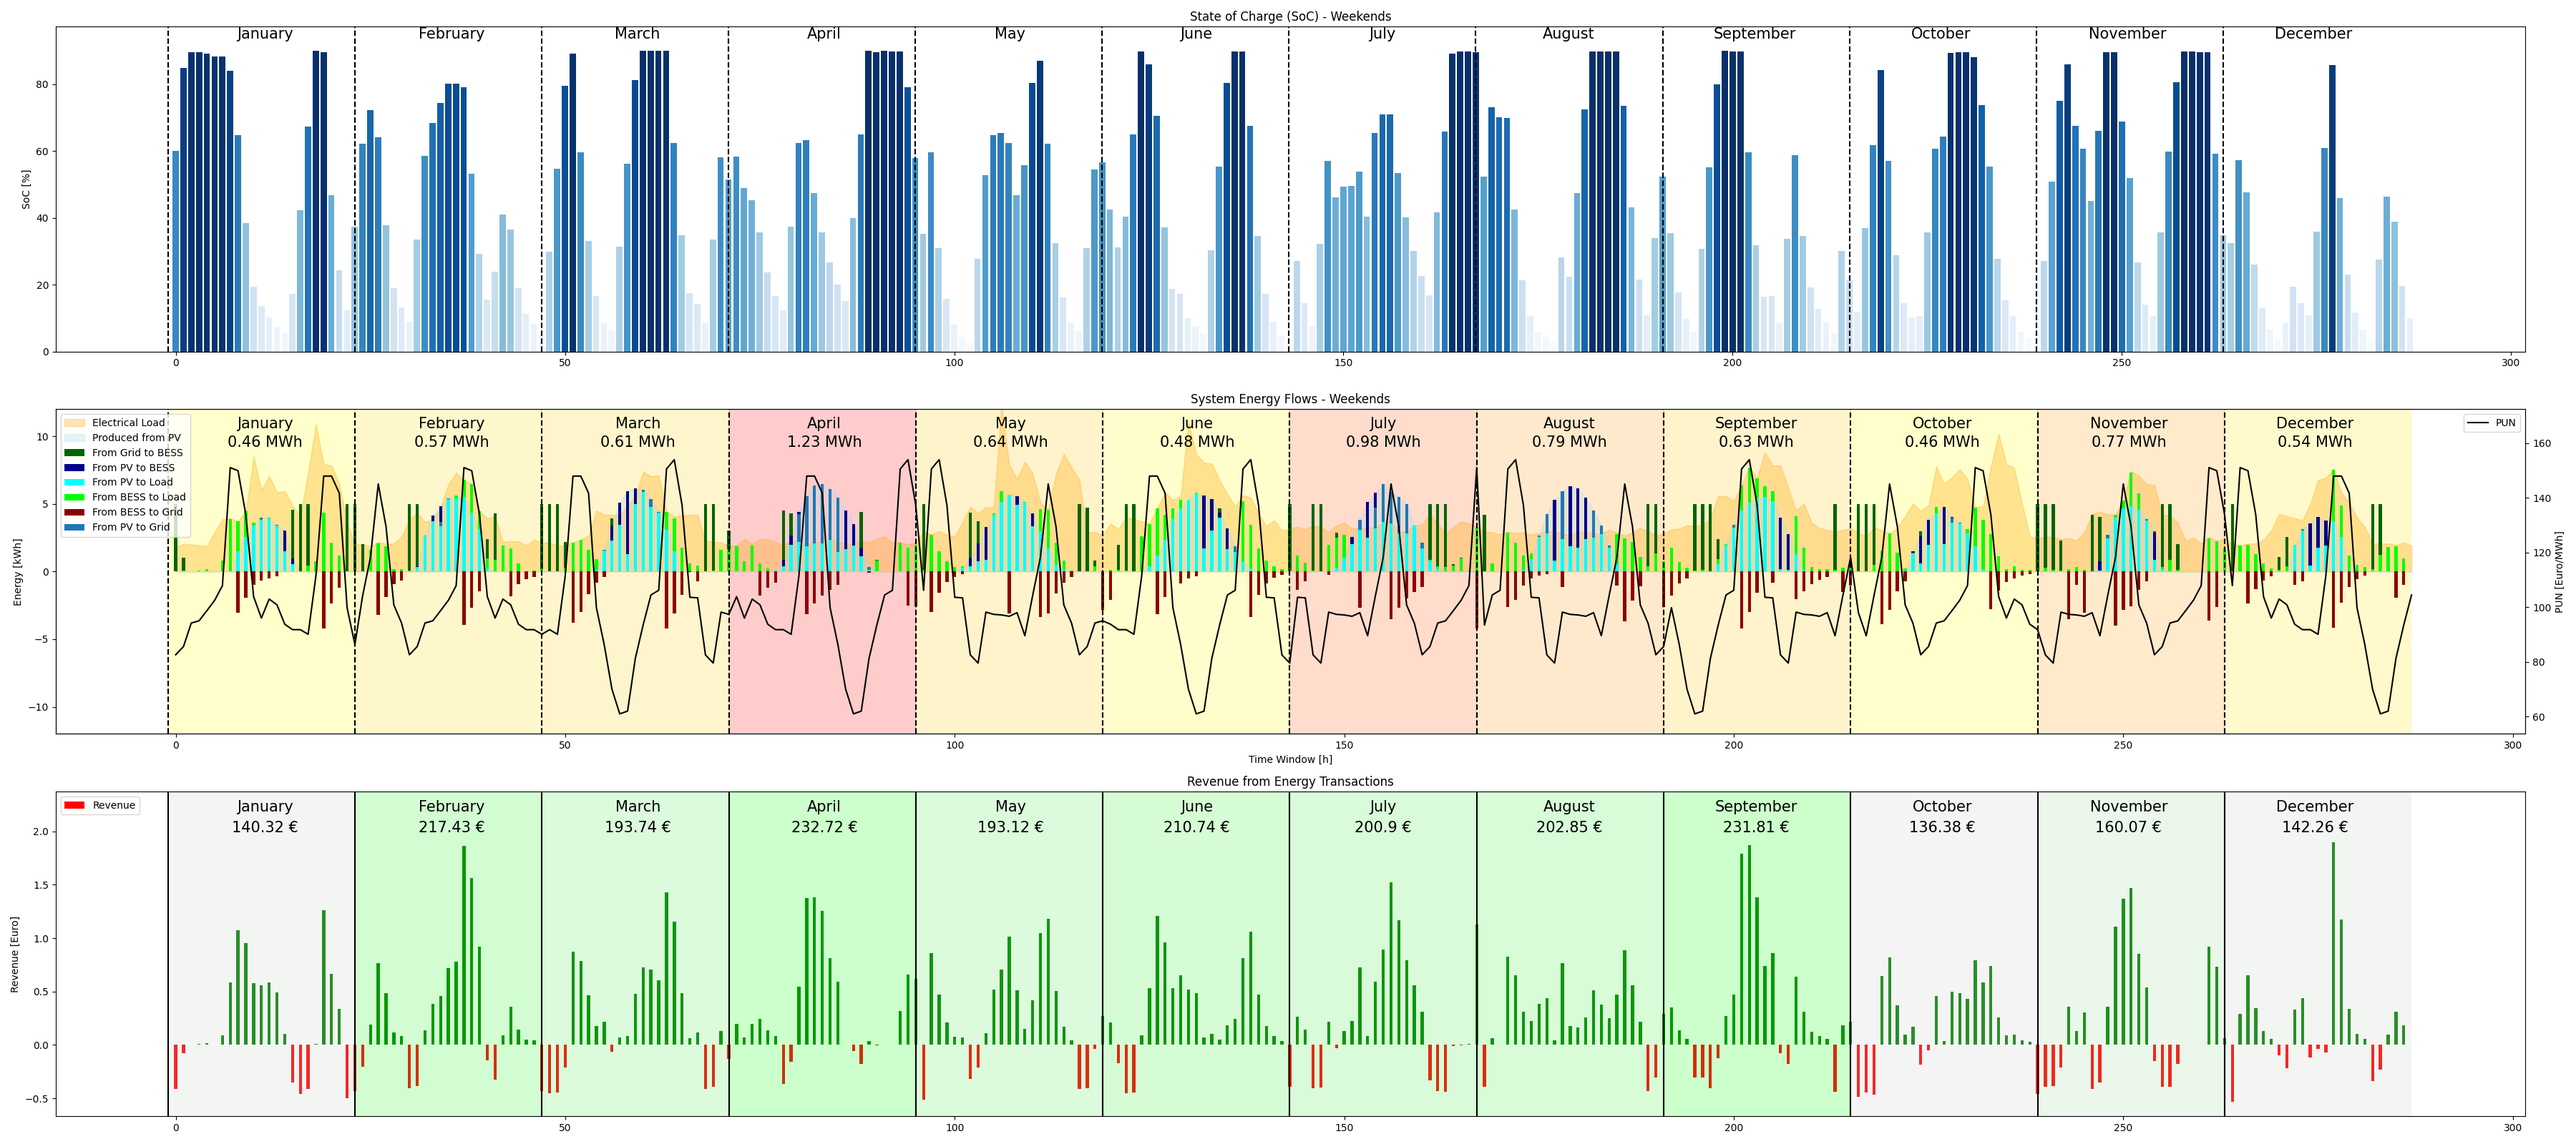
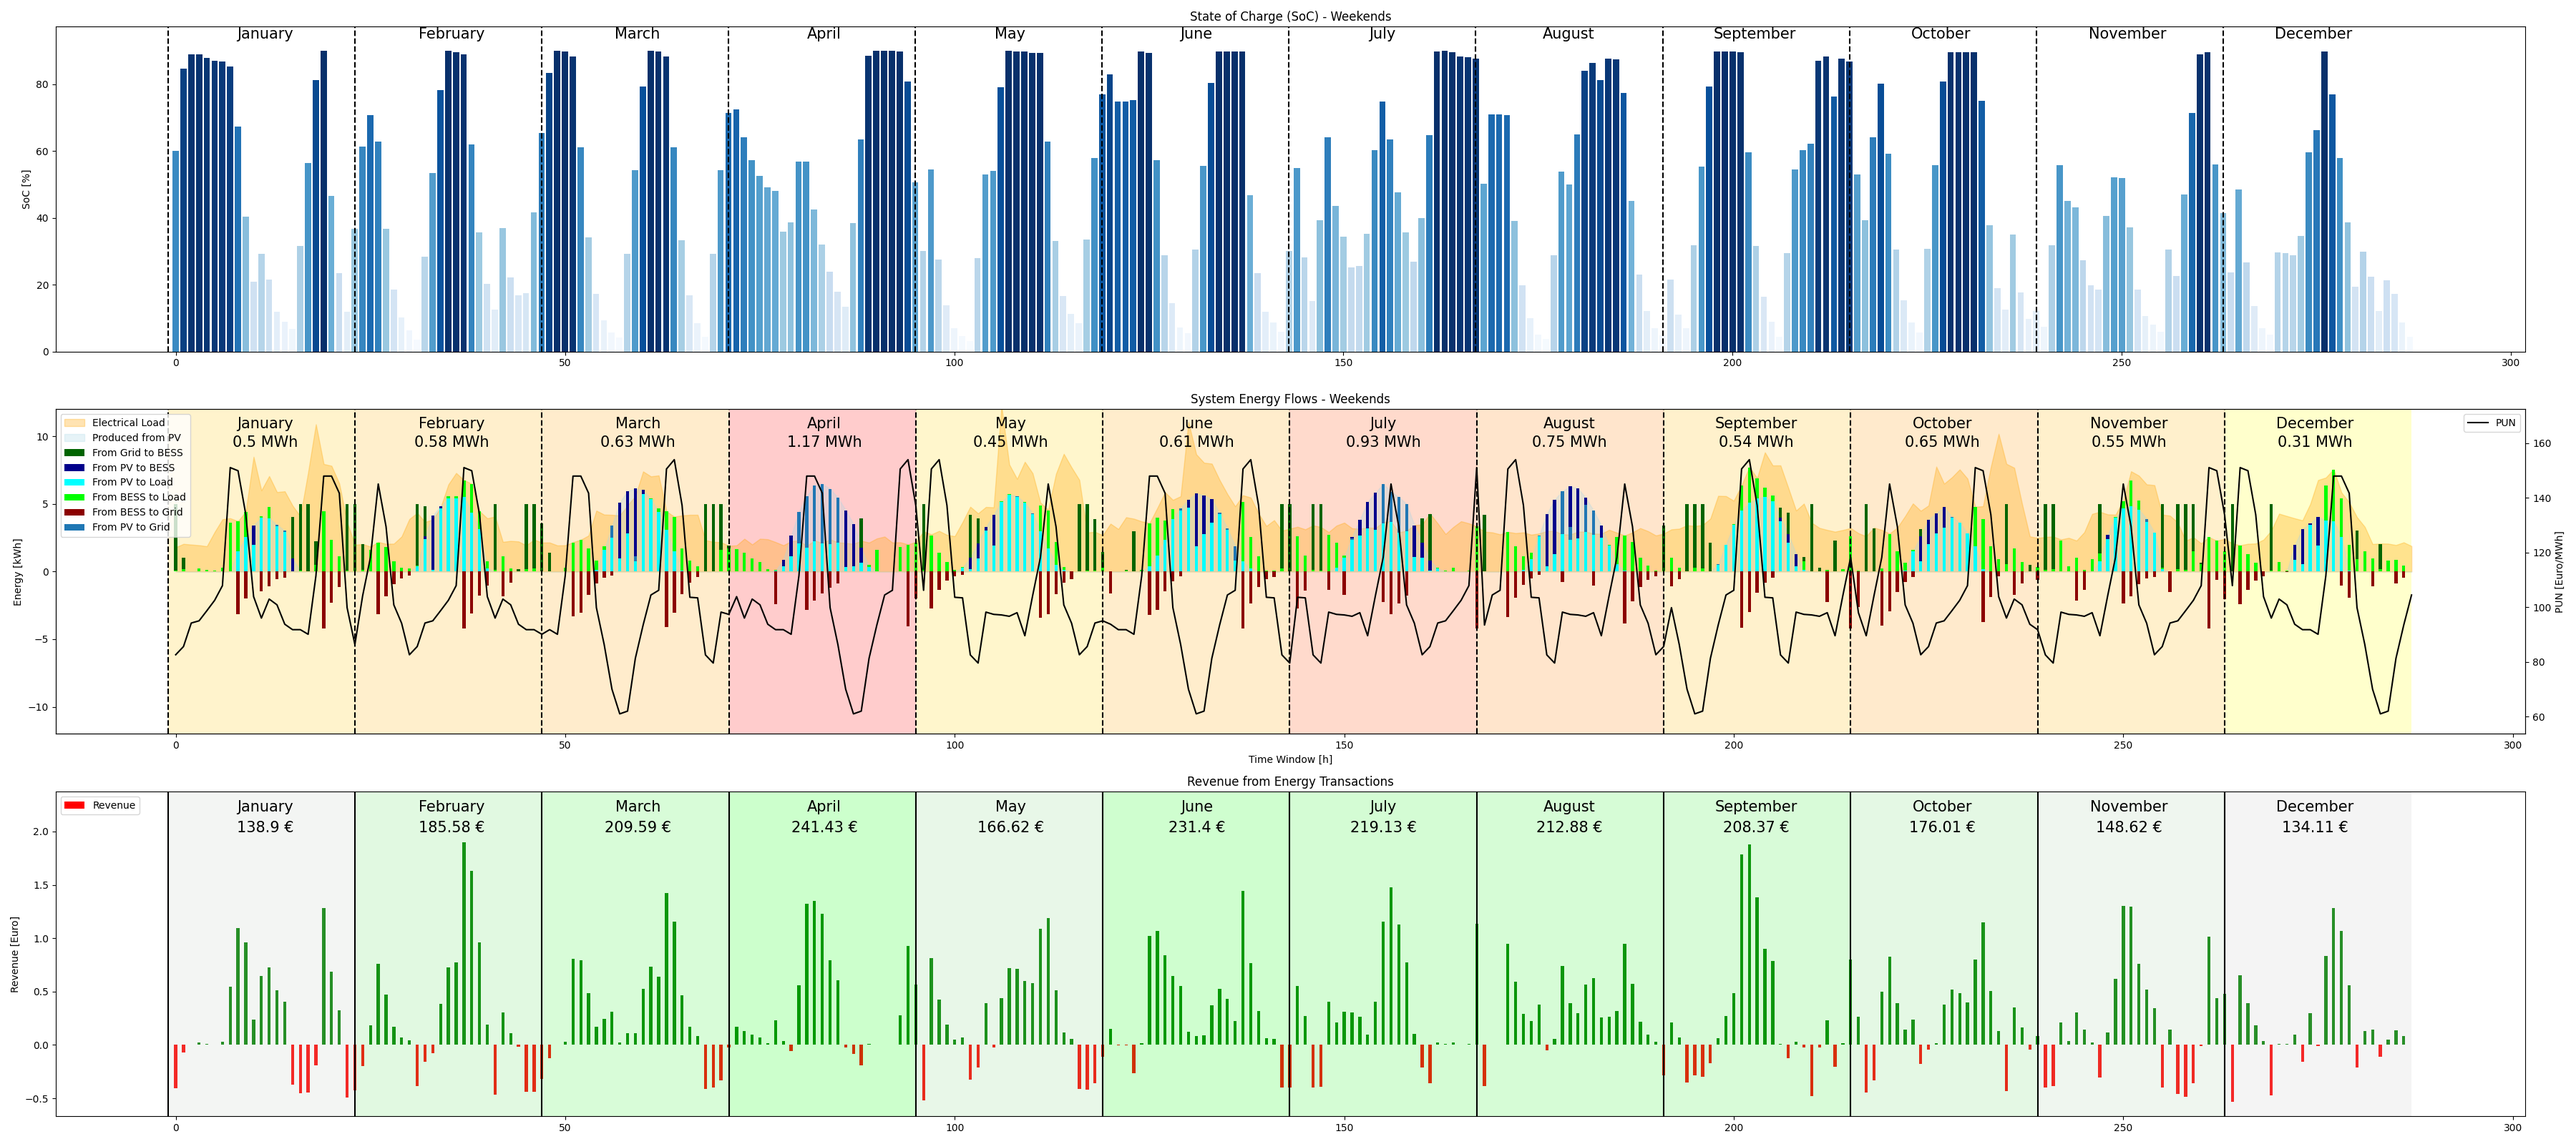
Hotfixing Hyperparameters and making tests

diff --git a/bess_optimization/short_simulation/configuration_s.py b/bess_optimization/short_simulation/configuration_s.py
@@ -132,7 +132,7 @@ algorithm = NSGA3(
     # sampling: This parameter specifies the method used to initialize the population. FloatRandomSampling
     # generates random floating-point values for the initial solutions, providing a diverse starting point.
 
-    sampling=LatinHypercubeSampling(),
+    sampling=FloatRandomSampling(),
 
     # selection: This defines the selection mechanism used to choose parents for reproduction.
     # TournamentSelection selects individuals based on a comparison function.
